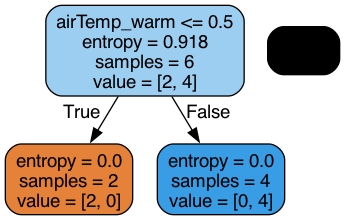
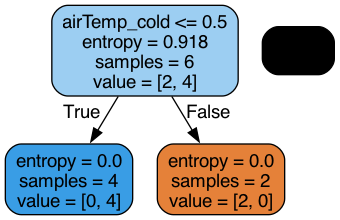
Reducing the number of variables

diff --git a/part6.py b/part6.py
@@ -25,3 +25,17 @@ graph.write_png('decision_tree.png')
 image = Image('decision_tree.png')
 display(image)
 
+# Drop the 'airTemp' column
+x2 = pd.get_dummies(df.drop(['enjoy', 'airTemp'], axis=1))
+y2 = df['enjoy']
+
+clf = clf_entropy.fit(x2, y2)
+
+columns = x2.columns
+
+dot_data = tree.export_graphviz(clf, out_file=None, rounded=True, filled=True, feature_names=columns)
+graph = pydotplus.graph_from_dot_data(dot_data)
+graph.write_png('decision_tree2.png')
+
+image = Image('decision_tree2.png')
+display(image)

diff --git a/README.md b/README.md
@@ -24,3 +24,6 @@
 
 
 
+
+## Part 6 - Decision Trees
+The values *gini* and *entropy* are criteria meassureing the quality of decision tree split. Mathematically the **gini** index indicates how impure and mixed the data is. the value ranges between 0 and 1. The closer to 0 the purer the dataset is. On the other hand the **entropy** meassures the uncertainty and randomness. This index also ranges between 0 and 1, where 0 indicates all elements belonging to the same class.
